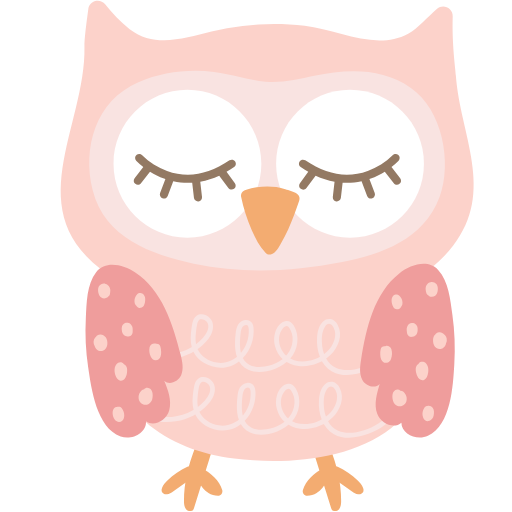
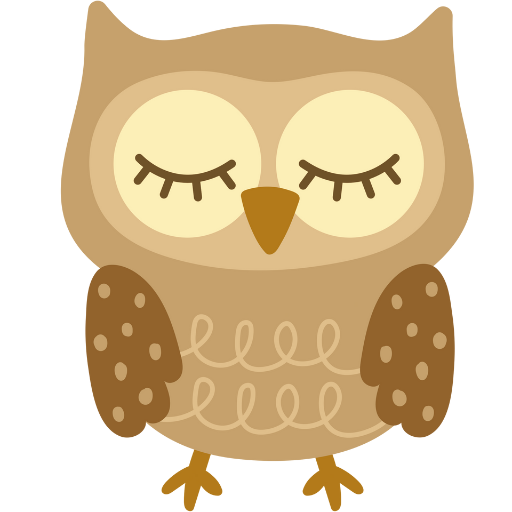
Added Gold owls for 6 habits done; silver for 4-5 habits done; bronze for 3 habits done

diff --git a/app/(tabs)/index.tsx b/app/(tabs)/index.tsx
@@ -20,7 +20,15 @@ export default function HomeScreen() {
     avoidLateEating: false,
   });
 
-  const [streak, setStreak] = useState<boolean[]>([false, false, false, false, false, false, false]);
+  const [streak, setStreak] = useState<{ completedHabits: number }[]>([
+    { completedHabits: 0 },
+    { completedHabits: 0 },
+    { completedHabits: 0 },
+    { completedHabits: 0 },
+    { completedHabits: 0 },
+    { completedHabits: 0 },
+    { completedHabits: 0 },
+  ]);
   const [lastCompletionDate, setLastCompletionDate] = useState<string | null>(null);
   const [isDayCompleted, setIsDayCompleted] = useState(false);
   const [bedtime, setBedtime] = useState<Date | null>(null);
@@ -33,7 +41,10 @@ export default function HomeScreen() {
   const [showDatePicker, setShowDatePicker] = useState(false);
   const [tempDate, setTempDate] = useState<Date>(new Date());
 
-  // Function to load data from AsyncStorage
+  const calculateCompletedHabits = () => {
+    return Object.values(habits).filter((habit) => habit).length;
+  };
+
   const loadData = async () => {
     try {
       const savedHabits = await AsyncStorage.getItem('habits');
@@ -60,9 +71,8 @@ export default function HomeScreen() {
       if (savedBedtime) {
         setBedtime(new Date(savedBedtime));
       } else {
-        // Default bedtime if none is set
         const defaultBedtime = new Date();
-        defaultBedtime.setHours(22, 0, 0, 0); // Default to 10:00 PM
+        defaultBedtime.setHours(22, 0, 0, 0);
         setBedtime(defaultBedtime);
       }
       if (savedBlueLightMinutes) {
@@ -88,12 +98,10 @@ export default function HomeScreen() {
     }
   };
 
-  // Load data when the component mounts
   useEffect(() => {
     loadData();
   }, []);
 
-  // Reload settings when the screen comes into focus
   useFocusEffect(
     useCallback(() => {
       const loadSettings = async () => {
@@ -192,7 +200,6 @@ export default function HomeScreen() {
   };
 
   const handleCompleteDay = () => {
-    // Only the mandatory habits are required to complete the day
     const mandatoryHabits = {
       goToBed: habits.goToBed,
       avoidBlueLight: habits.avoidBlueLight,
@@ -202,9 +209,10 @@ export default function HomeScreen() {
     if (allMandatoryHabitsCompleted) {
       const today = new Date().getDay();
       const adjustedDay = today === 0 ? 6 : today - 1;
+      const completedHabitsCount = calculateCompletedHabits();
       setStreak((prev) => {
         const newStreak = [...prev];
-        newStreak[adjustedDay] = true;
+        newStreak[adjustedDay] = { completedHabits: completedHabitsCount };
         return newStreak;
       });
       const todayDateString = getLocalDateString(new Date());
@@ -235,7 +243,15 @@ export default function HomeScreen() {
                 avoidCaffeine: false,
                 avoidLateEating: false,
               });
-              setStreak([false, false, false, false, false, false, false]);
+              setStreak([
+                { completedHabits: 0 },
+                { completedHabits: 0 },
+                { completedHabits: 0 },
+                { completedHabits: 0 },
+                { completedHabits: 0 },
+                { completedHabits: 0 },
+                { completedHabits: 0 },
+              ]);
               setLastCompletionDate(null);
               setIsDayCompleted(false);
               await AsyncStorage.setItem('habits', JSON.stringify({
@@ -246,7 +262,15 @@ export default function HomeScreen() {
                 avoidCaffeine: false,
                 avoidLateEating: false,
               }));
-              await AsyncStorage.setItem('streak', JSON.stringify([false, false, false, false, false, false, false]));
+              await AsyncStorage.setItem('streak', JSON.stringify([
+                { completedHabits: 0 },
+                { completedHabits: 0 },
+                { completedHabits: 0 },
+                { completedHabits: 0 },
+                { completedHabits: 0 },
+                { completedHabits: 0 },
+                { completedHabits: 0 },
+              ]));
               await AsyncStorage.setItem('lastCompletionDate', '');
             } catch (error) {
               console.error('Error resetting streak:', error);
@@ -272,13 +296,13 @@ export default function HomeScreen() {
     setLastCompletionDate(dateString);
     checkIfDayCompleted(dateString);
 
-    // Update the streak to show the owl for the selected date
     const selectedDate = new Date(tempDate);
     const dayOfWeek = selectedDate.getDay();
-    const adjustedDay = dayOfWeek === 0 ? 6 : dayOfWeek - 1; // Map Sunday (0) to index 6, Monday (1) to index 0, etc.
+    const adjustedDay = dayOfWeek === 0 ? 6 : dayOfWeek - 1;
+    const completedHabitsCount = calculateCompletedHabits();
     setStreak((prev) => {
       const newStreak = [...prev];
-      newStreak[adjustedDay] = true; // Set the corresponding day to true to show the owl
+      newStreak[adjustedDay] = { completedHabits: completedHabitsCount };
       return newStreak;
     });
 
@@ -310,6 +334,17 @@ export default function HomeScreen() {
 
   const isDevMode = __DEV__;
 
+  const getOwlIcon = (completedHabits: number) => {
+    if (completedHabits >= 6) {
+      return require('@/assets/images/owl-icon-gold.png');
+    } else if (completedHabits >= 4 && completedHabits < 6) {
+      return require('@/assets/images/owl-icon-silver.png');
+    } else if (completedHabits == 3) {
+      return require('@/assets/images/owl-icon.png');
+    }
+    return null;
+  };
+
   return (
     <ParallaxScrollView
       headerBackgroundColor={{ light: '#A1CEDC', dark: '#1D3D47' }}
@@ -320,9 +355,9 @@ export default function HomeScreen() {
           {daysOfWeek.map((day, index) => (
             <View key={index} style={styles.streakDay}>
               <ThemedText style={styles.dayText}>{day}</ThemedText>
-              {streak[index] ? (
+              {streak[index].completedHabits > 0 ? (
                 <Image
-                  source={require('@/assets/images/owl-icon.png')}
+                  source={getOwlIcon(streak[index].completedHabits)}
                   style={styles.owlIcon}
                 />
               ) : (
@@ -347,7 +382,7 @@ export default function HomeScreen() {
               <View style={[styles.checkbox, habits.goToBed && styles.checkboxChecked]}>
                 {habits.goToBed && <View style={styles.checkboxFill} />}
               </View>
-              <ThemedText style={isDayCompleted && styles.disabledText}>
+              <ThemedText style={[styles.habitText, isDayCompleted && styles.disabledText]}>
                 Go to bed at {bedtime ? formatTime(bedtime) : '10:00 PM'}
               </ThemedText>
             </TouchableOpacity>
@@ -360,8 +395,8 @@ export default function HomeScreen() {
               <View style={[styles.checkbox, habits.avoidBlueLight && styles.checkboxChecked]}>
                 {habits.avoidBlueLight && <View style={styles.checkboxFill} />}
               </View>
-              <ThemedText style={isDayCompleted && styles.disabledText}>
-                Avoided bluelight (no phones, tablets, bright lights {formatDuration(blueLightMinutes, 'minutes')} before bed)
+              <ThemedText style={[styles.habitText, isDayCompleted && styles.disabledText]}>
+                Avoided bluelight (no phones, tablets, etc, {formatDuration(blueLightMinutes, 'mins')} before bed)
               </ThemedText>
             </TouchableOpacity>
 
@@ -373,8 +408,8 @@ export default function HomeScreen() {
               <View style={[styles.checkbox, habits.roomTemp && styles.checkboxChecked]}>
                 {habits.roomTemp && <View style={styles.checkboxFill} />}
               </View>
-              <ThemedText style={isDayCompleted && styles.disabledText}>
-                Set room temperature to 60-67°F / 15-19°C
+              <ThemedText style={[styles.habitText, isDayCompleted && styles.disabledText]}>
+                Set room temperature to 60-67°F(15-19°C)
               </ThemedText>
             </TouchableOpacity>
           </View>
@@ -393,7 +428,7 @@ export default function HomeScreen() {
                   <View style={[styles.checkbox, habits.didWindDown && styles.checkboxChecked]}>
                     {habits.didWindDown && <View style={styles.checkboxFill} />}
                   </View>
-                  <ThemedText style={isDayCompleted && styles.disabledText}>
+                  <ThemedText style={[styles.habitText, isDayCompleted && styles.disabledText]}>
                     Did wind-down routine (e.g., yoga, reading, meditation)
                   </ThemedText>
                 </TouchableOpacity>
@@ -408,7 +443,7 @@ export default function HomeScreen() {
                   <View style={[styles.checkbox, habits.avoidCaffeine && styles.checkboxChecked]}>
                     {habits.avoidCaffeine && <View style={styles.checkboxFill} />}
                   </View>
-                  <ThemedText style={isDayCompleted && styles.disabledText}>
+                  <ThemedText style={[styles.habitText, isDayCompleted && styles.disabledText]}>
                     Avoided caffeine, nicotine, alcohol ({formatDuration(avoidCaffeineHours, 'hours')} before bed)
                   </ThemedText>
                 </TouchableOpacity>
@@ -423,7 +458,7 @@ export default function HomeScreen() {
                   <View style={[styles.checkbox, habits.avoidLateEating && styles.checkboxChecked]}>
                     {habits.avoidLateEating && <View style={styles.checkboxFill} />}
                   </View>
-                  <ThemedText style={isDayCompleted && styles.disabledText}>
+                  <ThemedText style={[styles.habitText, isDayCompleted && styles.disabledText]}>
                     Avoided late night eating ({formatDuration(avoidLateEatingHours, 'hours')} before bed)
                   </ThemedText>
                 </TouchableOpacity>
@@ -575,11 +610,13 @@ const styles = StyleSheet.create({
   checklist: {
     marginTop: 8,
     gap: 12,
+    paddingHorizontal: 16,
   },
   checklistItem: {
     flexDirection: 'row',
     alignItems: 'center',
     gap: 8,
+    flexWrap: 'wrap',
   },
   disabledChecklistItem: {
     opacity: 0.5,
@@ -602,12 +639,17 @@ const styles = StyleSheet.create({
     borderRadius: 2,
     backgroundColor: '#0A7EA4',
   },
+  habitText: {
+    flex: 1,
+    flexShrink: 1,
+  },
   disabledText: {
     color: '#666',
   },
   buttonContainer: {
     marginTop: 16,
     gap: 12,
+    paddingHorizontal: 16,
   },
   completeButton: {
     padding: 16,
